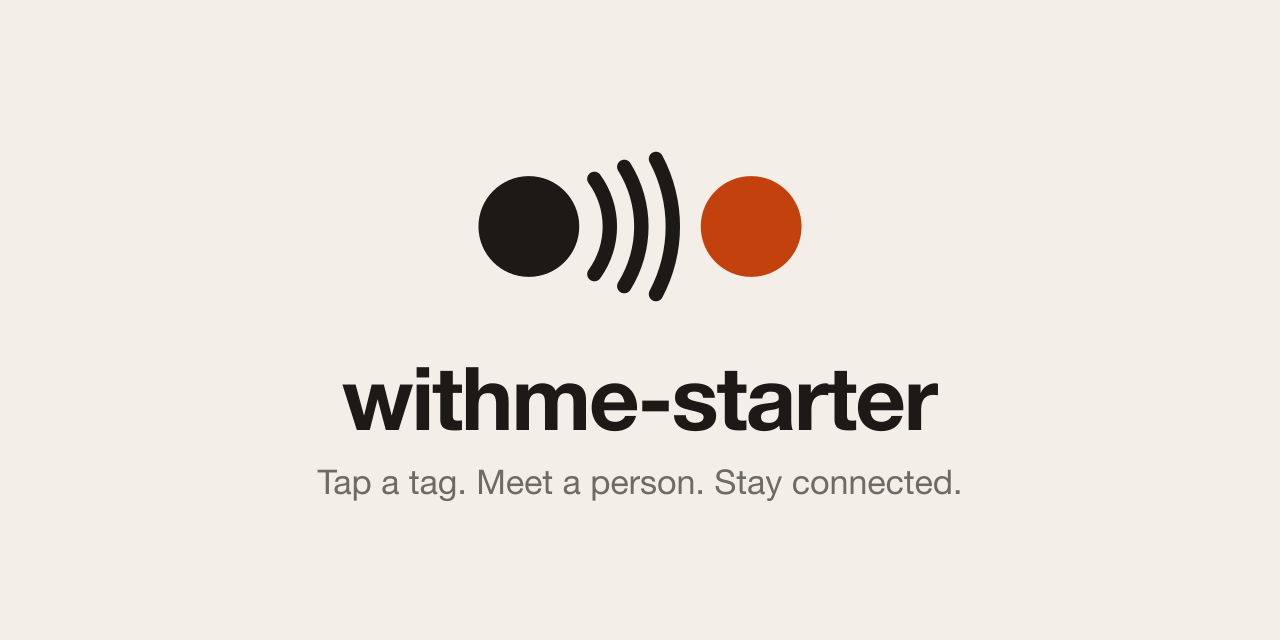
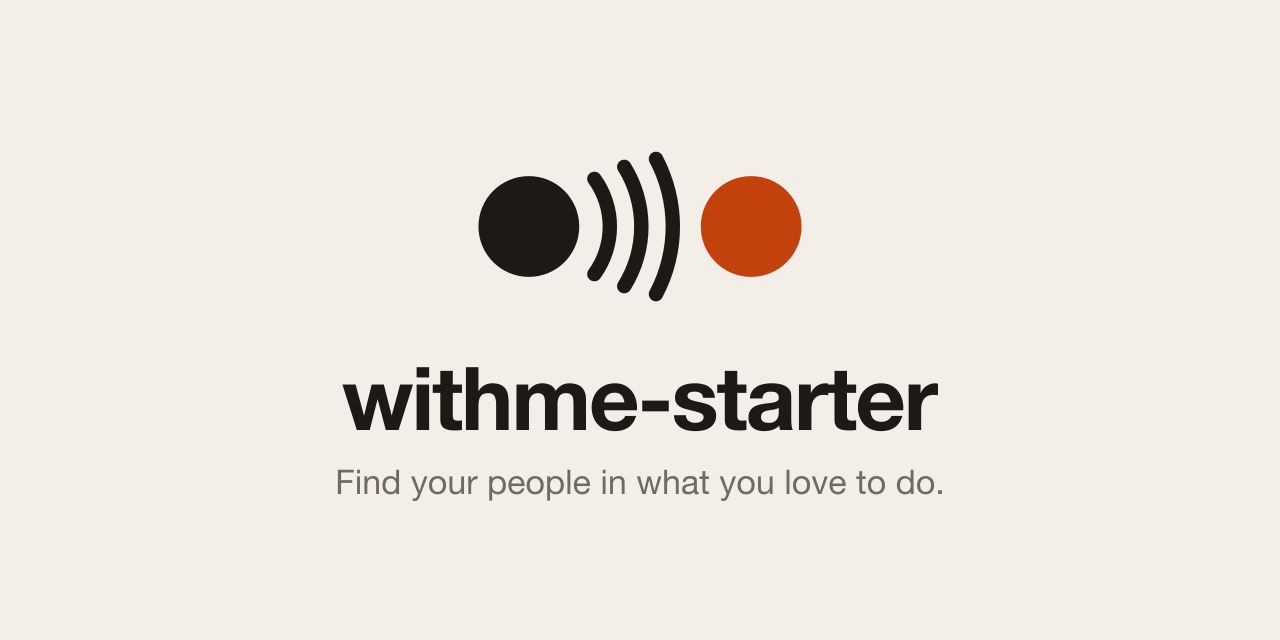
Tagline: Find your people in what you love to do. (#108)
Replaces "Tap a tag. Meet a person. Stay connected." with **"Find your
people in what you love to do."** The new line is about the feeling, not
the tap, and it works as a template for forks.

- `README.md`: the bold line under the title
- `apps/web/src/routes/index.tsx`: the landing promise
- `.agents/skills/add-marketing-site/site/src/brand.ts`: `PROMISE`,
which must match the landing line
- `docs/brand/social-preview.svg` and `.png`: the GitHub social card,
re-rendered with the `render.sh` command
- `design-direction` skill: the landing description now gives the fork
shape ("Find your people on the course"), the reference copy row's
placeholder changes, and Crux's worked example becomes "Find your people
on the wall."

Not changed: the README prose ("stay connected with the stranger…"), the
marketing site's three "How it works" steps, and the e2e test name.
Those describe the mechanics, not the tagline.

After merge, the social card under GitHub Settings > General > Social
preview needs re-uploading by hand.

🤖 Generated with [Claude Code](https://claude.com/claude-code)

<!-- This is an auto-generated comment: release notes by coderabbit.ai
-->

## Summary by CodeRabbit

* **Content**
* Updated the product tagline across the home page and supporting
materials to “Find your people in what you love to do.”
* Added customizable examples of the tagline, including “Find your
people on the course” and “Find your people on the wall.”
[…]

Changed region(s): [[0.25, 0.7188, 0.75, 0.7812]]

diff --git a/.agents/skills/add-marketing-site/site/src/brand.ts b/.agents/skills/add-marketing-site/site/src/brand.ts
@@ -7,7 +7,7 @@ export const WORDMARK = 'withme';
 /** The name in a sentence. */
 export const DISPLAY_NAME = 'withme';
 /** One line under the wordmark: the app's landing promise. */
-export const PROMISE = 'Tap a tag. Meet a person. Stay connected.';
+export const PROMISE = 'Find your people in what you love to do.';
 /** The meta description: one plain sentence of what the app does. */
 export const DESCRIPTION =
   'An NFC tag that opens your card. Tap it to meet someone, connect when you both say yes.';

diff --git a/apps/web/src/routes/index.tsx b/apps/web/src/routes/index.tsx
@@ -26,7 +26,7 @@ function Home() {
     <main className="page">
       <div className="card">
         <h1 className="wordmark">withme</h1>
-        <p className="bio">Tap a tag. Meet a person. Stay connected.</p>
+        <p className="bio">Find your people in what you love to do.</p>
         <p className="hint">
           This is the starter app — tags resolve at <code>/t/&lt;uid&gt;</code>.
         </p>

diff --git a/.agents/skills/design-direction/reference.md b/.agents/skills/design-direction/reference.md
@@ -115,7 +115,7 @@ Display sizes (make-it-yours step 1): <"starter's" (web `--text-title` 2rem, `--
 
 | screen | file | line |
 | --- | --- | --- |
-| landing promise | apps/web/src/routes/index.tsx | <Tap a tag. …> |
+| landing promise | apps/web/src/routes/index.tsx | <Find your people …> |
 | Merch card | apps/web/src/routes/_app.merch.tsx, apps/mobile/app/(tabs)/merch.tsx | <Tags and gear from the store.> |
 | NFC permission | apps/mobile/app.json nfcPermission | <Read Acme tags to connect with people.> |
 | photo permission | apps/mobile/app.json photosPermission | <Choose a photo for your profile.> |
@@ -153,7 +153,7 @@ The script's verdict on its twelve pairs: accent 7.45:1 light and
 7.81:1 dark, ink-muted on surface 5.94:1 and 6.12:1, the input border
 3.22:1 and 4.48:1, all `ok`, exit 0. Fonts: `@fontsource-variable/bricolage-grotesque`
 5.3.0 and `@expo-google-fonts/bricolage-grotesque` 0.4.1 both exist.
-Copy: "Tap a tag. Meet a climber. Stay connected."; Merch "Chalk, tags
+Copy: "Find your people on the wall."; Merch "Chalk, tags
 and gear from the desk."; NFC "Read Crux tags to connect with people."
 Refused on the way: a second, orange accent for "hosting" badges (the
 one-accent rule), and a hold-shaped tinted card background (surfaces

diff --git a/.agents/skills/design-direction/SKILL.md b/.agents/skills/design-direction/SKILL.md
@@ -88,8 +88,9 @@ so the owner can keep what people already recognise.
     development build shows it as a setup card without one), and the
     boards always draw it;
   - the landing page, `apps/web/src/routes/index.tsx` — the wordmark,
-    the one-line promise under it ("Tap a tag. Meet a person. Stay
-    connected."), a neutral "Sign in" button (ink on surface, no
+    the one-line promise under it ("Find your people in what you love
+    to do."; a fork names its own thing: "Find your people on the
+    course"), a neutral "Sign in" button (ink on surface, no
     accent), and a quiet "Get tags" button only when a store URL is
     set. Its starter hints are make-it-yours' to rewrite or delete; do
     not draw them.

diff --git a/README.md b/README.md
@@ -2,7 +2,7 @@
 
 [![CI](https://github.com/vibe-with-me/withme-starter/actions/workflows/ci.yml/badge.svg)](https://github.com/vibe-with-me/withme-starter/actions/workflows/ci.yml)
 
-**Tap a tag. Meet a person. Stay connected.**
+**Find your people in what you love to do.**
 
 withme-starter grew out of [Vibe With Me](https://vibewithme.co), made
 for the people you meet at shows: tap their tag or scan their code at a
